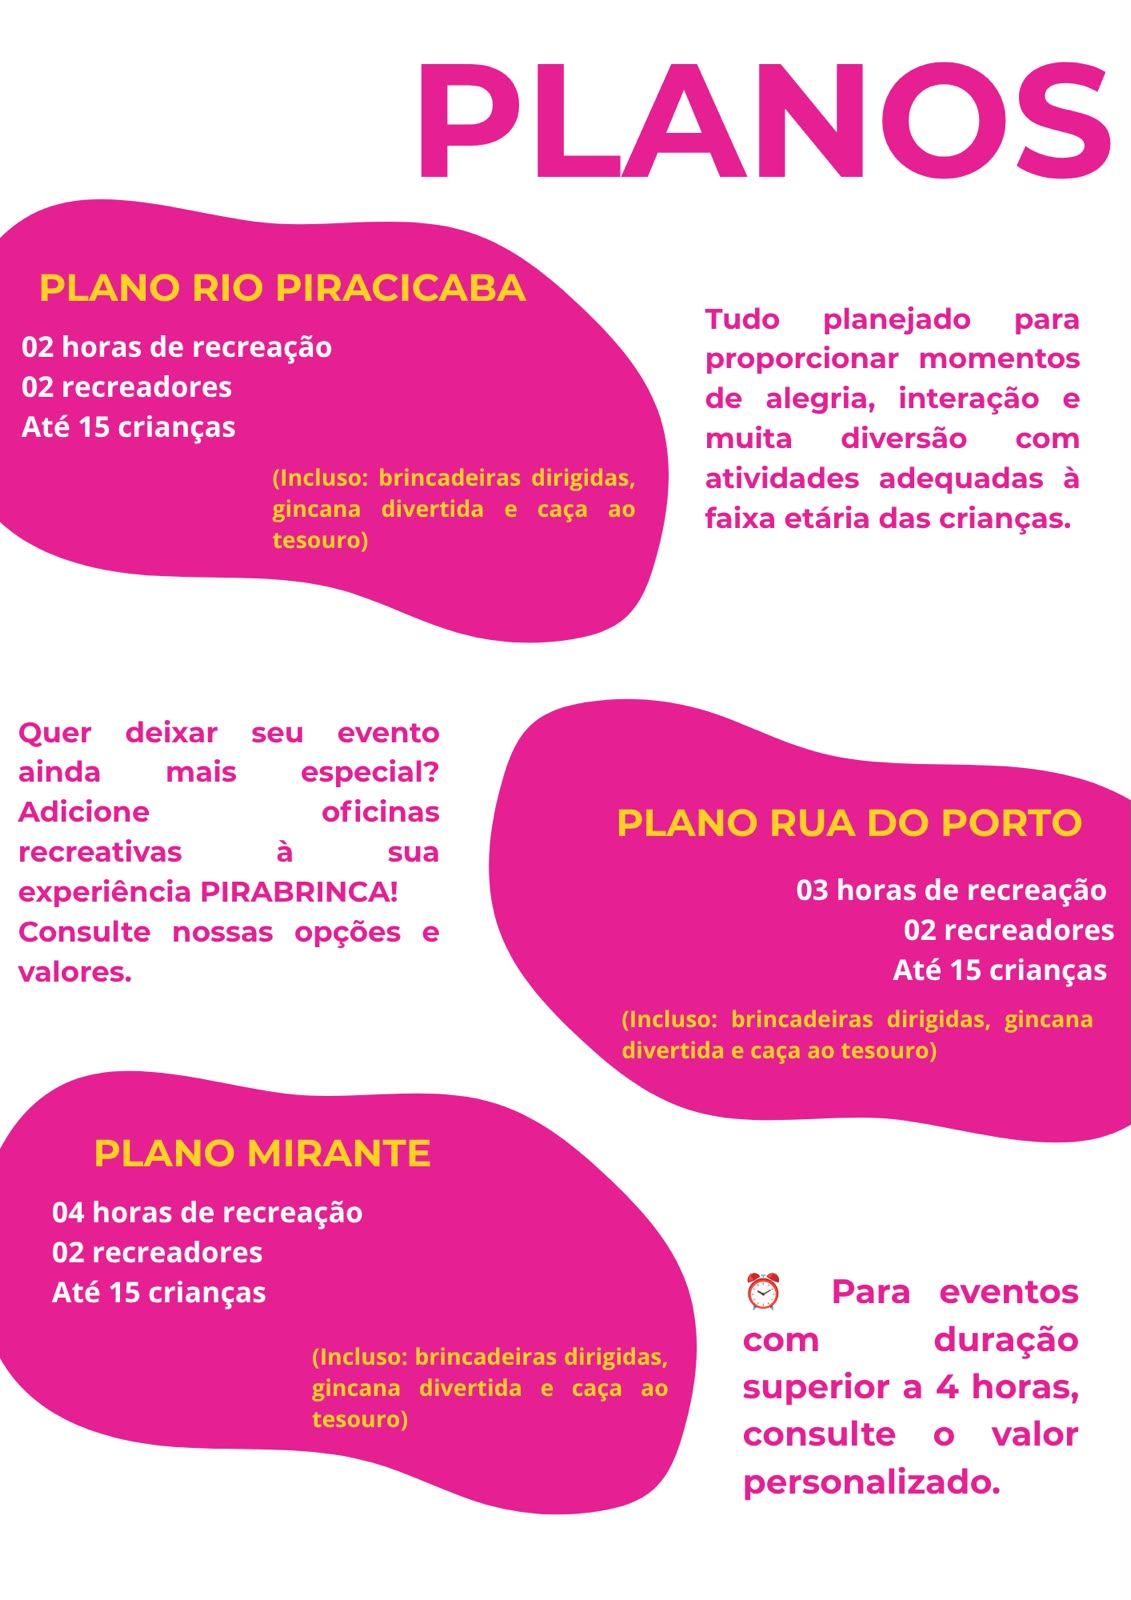
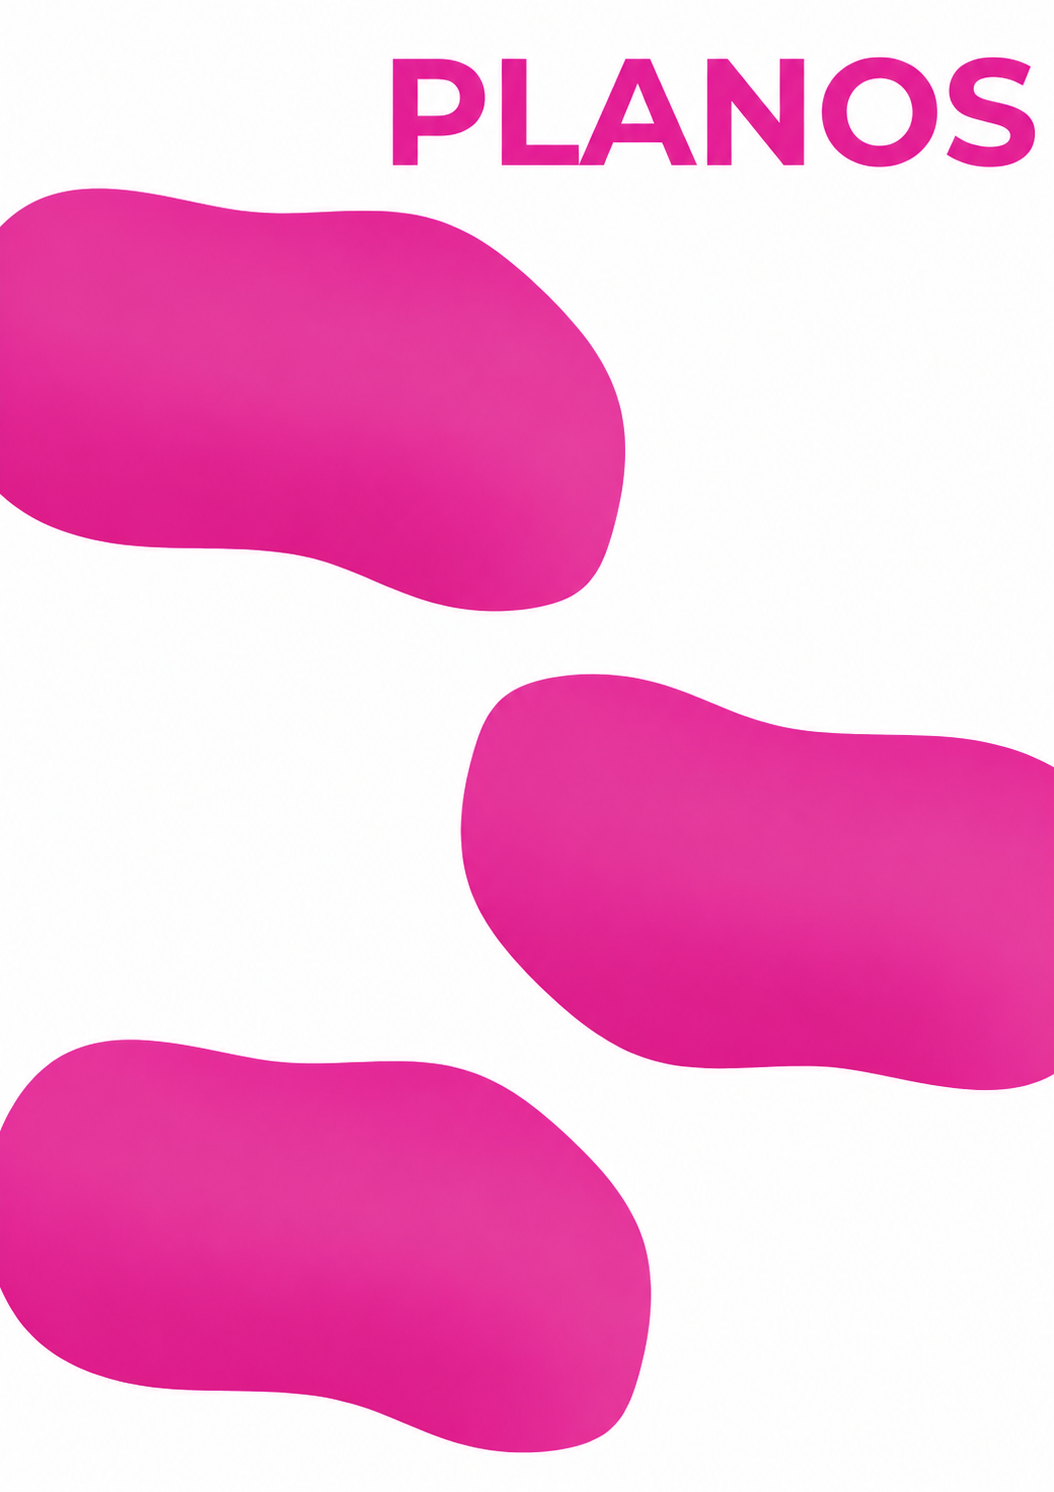
Modificado imagens no geral

diff --git a/components/sections/galeria-section.tsx b/components/sections/galeria-section.tsx
@@ -1,19 +1,14 @@
 "use client";
 
+import Image from "next/image";
 import { motion } from "framer-motion";
-import { Camera } from "lucide-react";
 import { Container } from "@/components/ui/container";
 import { SectionHeading } from "@/components/ui/section-heading";
 import { fadeUp, staggerContainer, revealOnView } from "@/lib/motion";
-import { cn } from "@/lib/utils";
 
-const placeholders = [
-  { height: "h-64", gradient: "from-pink-200 via-pink-100 to-sun-100" },
-  { height: "h-80", gradient: "from-sun-200 via-sun-100 to-pink-50" },
-  { height: "h-56", gradient: "from-pink-300 via-pink-100 to-white" },
-  { height: "h-72", gradient: "from-sun-100 via-pink-50 to-pink-100" },
-  { height: "h-60", gradient: "from-pink-100 via-sun-100 to-sun-50" },
-  { height: "h-80", gradient: "from-pink-200 via-white to-sun-100" },
+const tias = [
+  { src: "/images/tia na.jpeg", alt: "Tia Na", name: "Tia Na" },
+  { src: "/images/tia ana.jpeg", alt: "Tia Ana", name: "Tia Ana" },
 ];
 
 export function GaleriaSection() {
@@ -22,8 +17,7 @@ export function GaleriaSection() {
       <Container>
         <SectionHeading
           eyebrow="Galeria"
-          title="Momentos que viram lembrança"
-          description="Em breve, fotos reais das nossas festas por aqui. Por enquanto, prepare-se para o tanto de diversão que vem por vir."
+          title="Conheçam as Tias do Pirabrinca"
         />
 
         <motion.div
@@ -31,22 +25,25 @@ export function GaleriaSection() {
           initial="hidden"
           whileInView="visible"
           viewport={revealOnView}
-          className="mt-14 columns-2 gap-4 sm:columns-3 [&>div]:mb-4"
+          className="mt-10 grid gap-6 md:grid-cols-2"
         >
-          {placeholders.map((item, i) => (
+          {tias.map((tia) => (
             <motion.div
-              key={i}
+              key={tia.name}
               variants={fadeUp}
-              className={cn(
-                "relative overflow-hidden rounded-3xl bg-gradient-to-br shadow-card",
-                item.height,
-                item.gradient
-              )}
+              className="overflow-hidden rounded-[2rem] bg-white p-3 shadow-card"
             >
-              <div className="absolute inset-0 -translate-x-full animate-shimmer bg-gradient-to-r from-transparent via-white/40 to-transparent bg-[length:200%_100%]" />
-              <div className="absolute inset-0 flex items-center justify-center">
-                <Camera className="text-white/70" size={28} />
+              <div className="relative aspect-[4/5] overflow-hidden rounded-[1.5rem]">
+                <Image
+                  src={tia.src}
+                  alt={tia.alt}
+                  fill
+                  className="object-cover"
+                />
               </div>
+              <p className="mt-4 text-center text-lg font-semibold text-pink-700">
+                {tia.name}
+              </p>
             </motion.div>
           ))}
         </motion.div>
